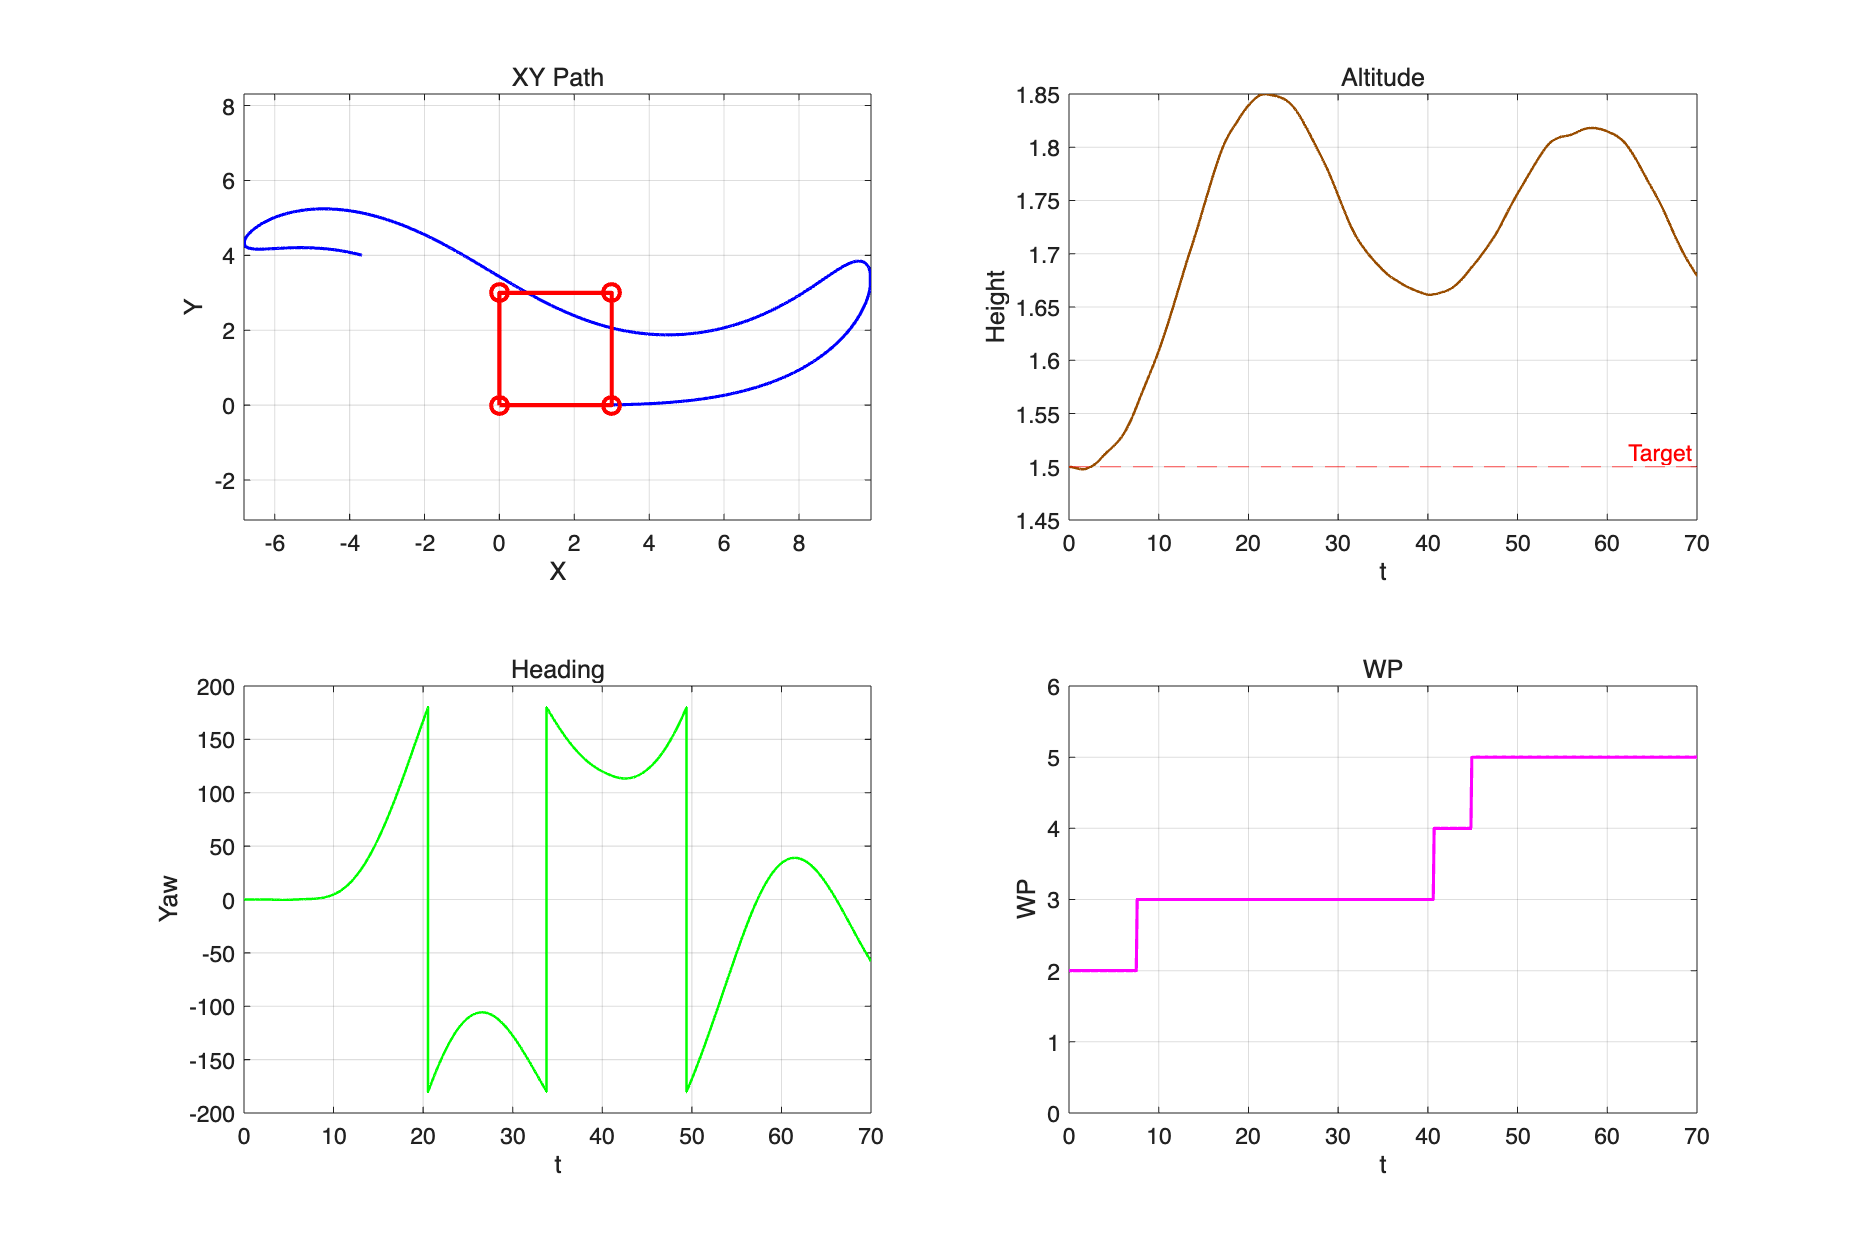
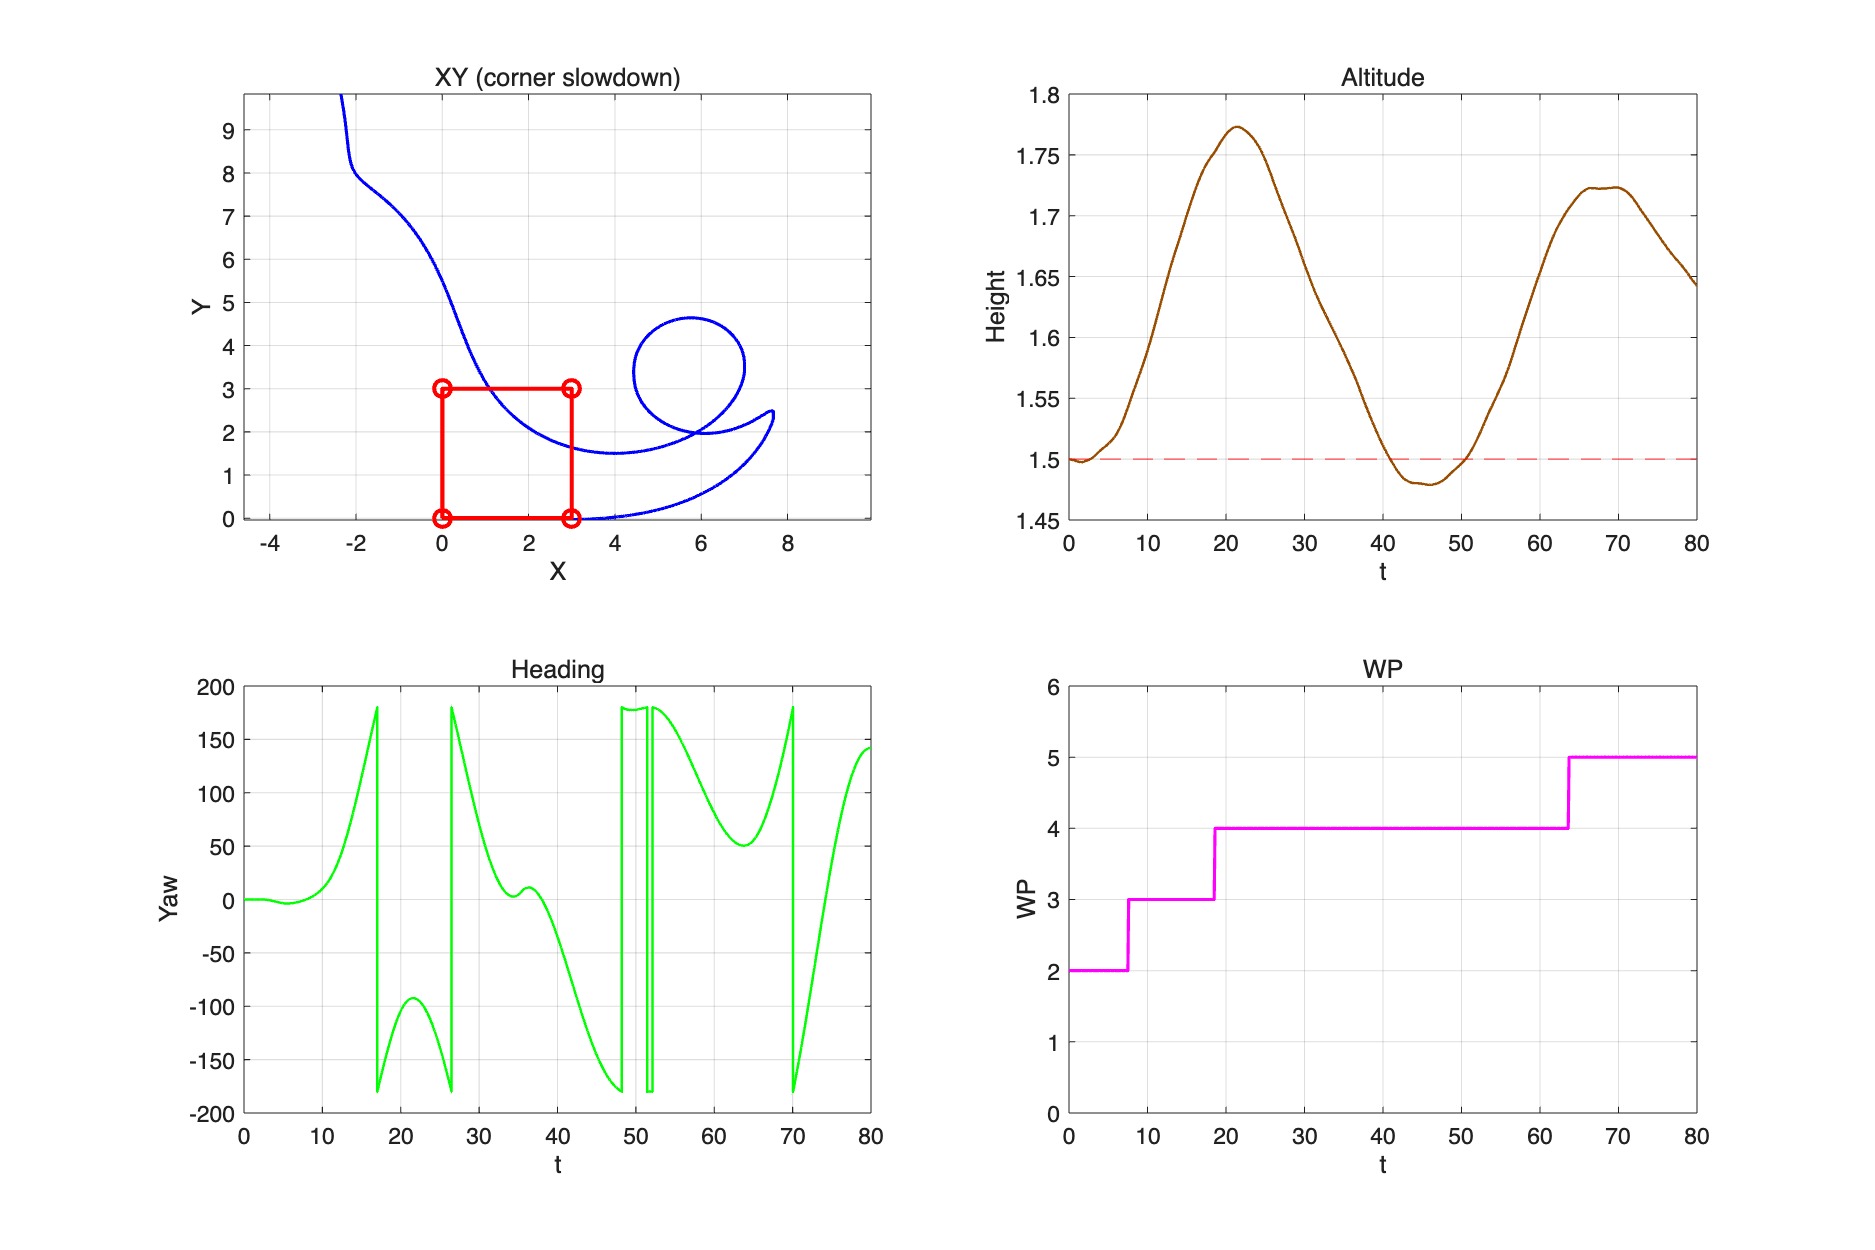
LOS guidance + corner slowdown: WP5 complete, ~1m tracking
- AutoNav: heading-to-WP → LOS line-following guidance
  - along-track projection + cross-track error correction (K_ct=2.0)
  - lookahead: T=0.6s, L_min=0.5m, L_max=1.2m
  - along-track progress 기반 WP 전환
- 코너 감속: u_corner=0.6, psi_slow_thresh=15deg
- psi_rate_max: 15→45 deg/s (물고기 특성 반영)
- 결과: WP5 완주, 직선 ~1m 이내, 코너 1~2m 오버슈트
- 고도: 1.48~1.77m 유지

diff --git a/simulink/AutoNav_code.m b/simulink/AutoNav_code.m
@@ -23,13 +23,17 @@ WP = [ 0,  0, -1.5;
 N_wp = 5;
 R_switch = 0.8;      % 코너 통과 허용 반경 확대
 
-% Guidance
-psi_rate_max = 15 * pi/180;  % psi_ref 변화율 제한 [rad/s]
+% Guidance (LOS)
+psi_rate_max = 45 * pi/180;  % psi_ref 변화율 [rad/s] — 물고기라 빠르게 턴
+T_look = 0.6;                % lookahead time [s] — 짧을수록 경로 밀착
+L_look_min = 0.5;            % minimum lookahead [m]
+L_look_max = 1.2;            % maximum lookahead [m]
+K_ct = 2.0;                  % cross-track correction gain — 경로 복귀 강화
 
 % Speed
-u_cruise = 1.2;
-u_corner = 0.9;
-psi_slow_thresh = 25 * pi/180;
+u_cruise = 1.0;       % 순항 약간 낮춤
+u_corner = 0.6;       % 코너 더 감속
+psi_slow_thresh = 15 * pi/180;  % 더 일찍 감속 시작
 Kp_u = 0.8;
 Ki_u = 0.15;
 freq_min = 0.5;
@@ -68,21 +72,71 @@ psi = euler(3);
 height = -z;
 u_meas = speed_mag;  % from position derivative
 
-%% ========== 1. Waypoint Manager ==========
-wp_x = WP(wp_idx,1);  wp_y = WP(wp_idx,2);
-dist = sqrt((x-wp_x)^2 + (y-wp_y)^2);
-
-% along-track 기반: 거리 < R_switch 또는 지나쳤을 때
-if dist < R_switch && wp_idx < N_wp
-    wp_idx = wp_idx + 1;
+%% ========== 1. Waypoint Manager + LOS Segment ==========
+% wp_idx is the active segment start index: WP_A = WP(wp_idx), WP_B = WP(wp_idx+1)
+if wp_idx > N_wp - 1
+    wp_idx = N_wp - 1;
 end
 
-tgt_x = WP(wp_idx,1);  tgt_y = WP(wp_idx,2);  tgt_z = WP(wp_idx,3);
+WP_A = WP(wp_idx, :);
+WP_B = WP(wp_idx + 1, :);
+
+seg_x = WP_B(1) - WP_A(1);
+seg_y = WP_B(2) - WP_A(2);
+seg_len = sqrt(seg_x^2 + seg_y^2);
+if seg_len < 1e-6
+    seg_len = 1e-6;
+end
+t_hat_x = seg_x / seg_len;
+t_hat_y = seg_y / seg_len;
+
+rel_x = x - WP_A(1);
+rel_y = y - WP_A(2);
+s_along = rel_x * t_hat_x + rel_y * t_hat_y;
+e_ct = -rel_x * t_hat_y + rel_y * t_hat_x;  % signed cross-track error
+dist_to_B = sqrt((x - WP_B(1))^2 + (y - WP_B(2))^2);
+
+% along-track progress 기반 waypoint 전환
+if ((s_along >= seg_len - R_switch) || (dist_to_B < R_switch)) && (wp_idx < N_wp - 1)
+    wp_idx = wp_idx + 1;
+    if wp_idx > N_wp - 1
+        wp_idx = N_wp - 1;
+    end
+
+    WP_A = WP(wp_idx, :);
+    WP_B = WP(wp_idx + 1, :);
+
+    seg_x = WP_B(1) - WP_A(1);
+    seg_y = WP_B(2) - WP_A(2);
+    seg_len = sqrt(seg_x^2 + seg_y^2);
+    if seg_len < 1e-6
+        seg_len = 1e-6;
+    end
+    t_hat_x = seg_x / seg_len;
+    t_hat_y = seg_y / seg_len;
+
+    rel_x = x - WP_A(1);
+    rel_y = y - WP_A(2);
+    s_along = rel_x * t_hat_x + rel_y * t_hat_y;
+    e_ct = -rel_x * t_hat_y + rel_y * t_hat_x;
+end
+
+tgt_z = WP_B(3);
 h_ref = -tgt_z;
 
-%% ========== 2. Guidance (heading to WP + rate limit) ==========
-dx = tgt_x - x;  dy = tgt_y - y;
-psi_desired = atan2(dy, dx);
+%% ========== 2. Guidance (LOS line following + rate limit) ==========
+look_dist = max(min(T_look * max(u_meas, 0.4), L_look_max), L_look_min);
+s_proj = max(min(s_along, seg_len), 0.0);
+look_s = min(s_proj + look_dist, seg_len);
+
+% LOS lookahead point on active segment
+look_x = WP_A(1) + look_s * t_hat_x;
+look_y = WP_A(2) + look_s * t_hat_y;
+
+% path heading + cross-track correction
+psi_path = atan2(seg_y, seg_x);
+psi_ct = atan2(-K_ct * e_ct, look_dist);
+psi_desired = atan2(sin(psi_path + psi_ct), cos(psi_path + psi_ct));
 
 % psi_ref rate limiting
 psi_err_raw = atan2(sin(psi_desired - prev_psi_ref), cos(psi_desired - prev_psi_ref));
@@ -135,6 +189,6 @@ Ref_Att_Auto = [0; 0; psi_ref];
 TailFreq_Auto = tail_freq;
 PecCommon_Auto = pec_common;
 TailPitch_Auto = tail_pitch_cmd;
-wp_idx_out = wp_idx;
+wp_idx_out = min(wp_idx + 1, N_wp);
 
 end
